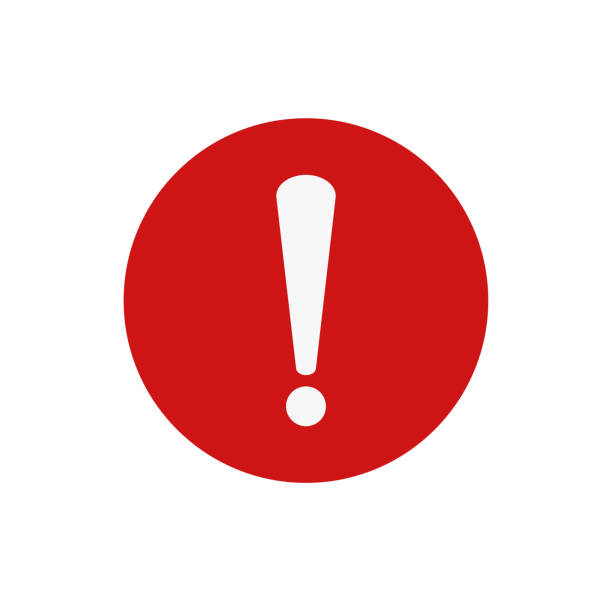
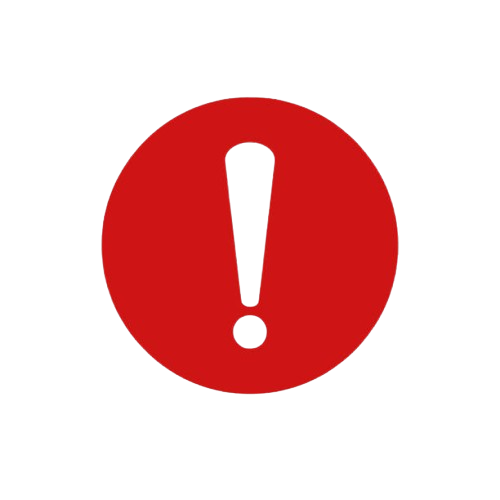
Comestic changes for course search page
Aligned yes and no for term1 and term2
Removed background for warning icon

diff --git a/course-search(SCIS Filter).html b/course-search(SCIS Filter).html
@@ -209,20 +209,20 @@
             </div>
           </div>
 
-          <h3 >Course Search Results</h3>
-          <div class="course-row">
-            <span class="fw-bold">Course Code: Course Name</span>
+          <h3 class="d-inline">Course Search Results</h3><h4 class="float-end me-5">Available</h4>
+          <div class="course-row" style="font-size:18px;">
+            <span class="fw-bold fst-italic">Course Code: Course Name</span>
               <span class="float-end">
-                <span class="fw-semibold">Term 1</span>
-                <span class="ms-5 me-3 fw-semibold">Term 2</span>
+                <span class="fw-semibold pe-3">Term 1</span>
+                <span class="ms-4 me-2 fw-semibold">Term 2</span>
               </span>
           </div>
           <div class="course-row" onclick="toggleDropdown(this)">
             <i class="fas fa-chevron-right arrow-icon"></i>
             <a href="#" style="color: black;">COR1201: Calculus</a>
             <span class="float-end">
-              <span>Yes</span>
-              <span class="ms-5 me-3">Yes</span>
+              <span class="me-4">Yes</span>
+              <span class="ms-5 me-4">Yes</span>
             </span>
           </div>
 
@@ -230,8 +230,8 @@
             <i class="fas fa-chevron-right arrow-icon"></i>
             <a href="#" style="color: black;">COR1701: Critical Thinking In The Real World</a>
             <span class="float-end">
-              <span>Term 1: Yes</span>
-              <span class="ms-3">Term 2: No</span>
+              <span class="me-4">Yes</span>
+              <span class="ms-5 me-4">No</span>
             </span>
           </div>
 
@@ -239,8 +239,8 @@
             <i class="fas fa-chevron-right arrow-icon"></i>
             <a href="index.html" style="color: black;">CS103: Introduction to Computing</a>
             <span class="float-end">
-              <span>Term 1: Yes</span>
-              <span class="ms-3">Term 2: Yes</span>
+              <span class="me-4">Yes</span>
+              <span class="ms-5 me-4">Yes</span>
             </span>
             <div class="dropdown-content">
               <div>
@@ -258,8 +258,8 @@
             <i class="fas fa-chevron-right arrow-icon"></i>
             <a href="#" style="color: black;">CS426: Agent-Based Modeling And Simulation</a>
             <span class="float-end">
-              <span>Term 1: No</span>
-              <span class="ms-3">Term 2: Yes</span>
+              <span class="me-4">No</span>
+              <span class="ms-5 me-4">Yes</span>
             </span>
           </div>
 
@@ -267,18 +267,18 @@
             <i class="fas fa-chevron-right arrow-icon"></i>
             <a href="#" style="color: black;">CS472: Guided Advanced Research In Computer</a>
             <span class="float-end">
-              <span>Term 1: No</span>
-              <span class="ms-3">Term 2: Yes</span>
+              <span class="me-4">No</span>
+              <span class="ms-5 me-4">Yes</span>
             </span>
           </div>
 
           <div class="course-row" onclick="toggleDropdown(this)">
             <i class="fas fa-chevron-right arrow-icon"></i>
             <a href="#" style="color: black;">IS217: Analytics Foundations</a>
-            <img src="img/warningicon.png" class="warning-icon" alt="Warning" />
+            <img src="img/warningicon.png" class="warning-icon" alt="Warning" style="width: 30px; height: 30px;">
             <span class="float-end">
-              <span>Term 1: Yes</span>
-              <span class="ms-3">Term 2: Yes</span>
+              <span class="me-4">Yes</span>
+              <span class="ms-5 me-4">Yes</span>
             </span>
             <div class="dropdown-content">
               <div>
@@ -316,8 +316,8 @@
             <a href="#" style="color: black;">COR 1703: Managing In A Volatile, Uncertain, Complex And
               Ambiguous Context</a>
             <span class="float-end">
-              <span>Term 1: Yes</span>
-              <span class="ms-3">Term 2: No</span>
+              <span class="me-4">Yes</span>
+              <span class="ms-5 me-4">No</span>
             </span>
           </div>
         </div>
